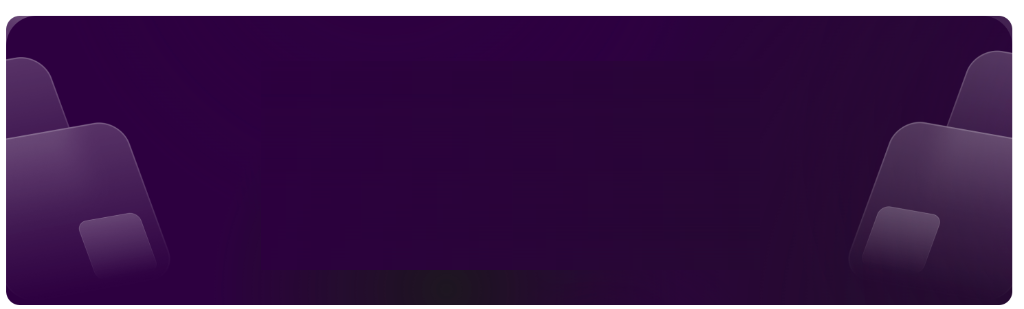
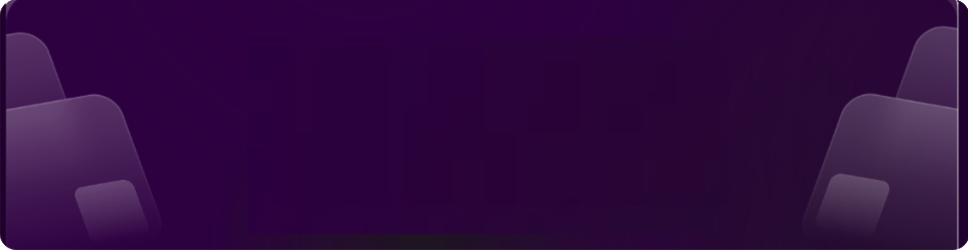
Refine bottom CTA card to match exact reference design 1:1

diff --git a/index.html b/index.html
@@ -952,56 +952,70 @@
         /* 6. BOTTOM CALL TO ACTION */
         .bottom-cta-banner {
             background: var(--bg-page);
-            padding: 70px 0 80px;
+            padding: 60px 0 80px;
             border-top: none;
         }
 
         .bottom-cta-card {
             position: relative;
+            max-width: 968px;
+            width: 100%;
+            margin: 0 auto;
+            min-height: 250px;
             border-radius: 20px;
             overflow: hidden;
-            background: #20002C url('images/cta-card-bg-clean.png') center center / cover no-repeat;
-            padding: 76px 24px;
+            background: #20002C url('images/cta-card-bg-clean.png') center center / 100% 100% no-repeat;
+            padding: 46px 24px 44px;
             text-align: center;
             display: flex;
             flex-direction: column;
             align-items: center;
             justify-content: center;
-            box-shadow: 0 16px 40px rgba(32, 0, 44, 0.16);
-            border: 1px solid rgba(255, 255, 255, 0.08);
+            box-shadow: 0 16px 40px rgba(32, 0, 44, 0.22);
+        }
+
+        @media (max-width: 991px) {
+            .bottom-cta-card {
+                background-size: cover;
+                min-height: 230px;
+                padding: 40px 20px;
+            }
         }
 
         .bottom-cta-headline {
             font-family: var(--font-serif);
-            font-size: clamp(2.2rem, 3.8vw, 3.4rem);
-            font-weight: 500;
+            font-size: clamp(2rem, 3.5vw, 2.75rem);
+            font-weight: 400;
             color: #FFFFFF;
-            margin-bottom: 26px;
+            margin-bottom: 22px;
             line-height: 1.15;
             position: relative;
             z-index: 2;
+            letter-spacing: -0.01em;
         }
 
         .bottom-cta-headline .italic-gold {
             font-style: italic;
             color: var(--gold-accent);
+            font-weight: 400;
         }
 
         .btn-conversation {
             display: inline-flex;
             align-items: center;
             justify-content: center;
-            gap: 10px;
+            gap: 8px;
             background: #FFFFFF;
             color: #20002C;
-            padding: 13px 26px;
+            height: 42px;
+            padding: 0 22px;
             border-radius: 4px;
             font-family: var(--font-sans);
-            font-size: 0.94rem;
+            font-size: 0.88rem;
             font-weight: 600;
             text-decoration: none;
             transition: all var(--transition);
-            box-shadow: 0 4px 14px rgba(0, 0, 0, 0.12);
+            box-shadow: 0 2px 8px rgba(0, 0, 0, 0.1);
             position: relative;
             z-index: 2;
         }
@@ -1010,12 +1024,13 @@
             background: #FAF7F2;
             color: #4A1068;
             transform: translateY(-2px);
-            box-shadow: 0 8px 24px rgba(0, 0, 0, 0.2);
+            box-shadow: 0 6px 18px rgba(0, 0, 0, 0.18);
         }
 
         .btn-conversation svg {
             display: inline-block;
             vertical-align: middle;
+            flex-shrink: 0;
         }
 
         /* 7. FOOTER */
@@ -1747,9 +1762,10 @@
                     Let’s build what <span class="italic-gold">lasts</span>
                 </h2>
                 <a href="#contact" class="btn-conversation">
-                    <svg width="18" height="15" viewBox="0 0 20 16" fill="none" aria-hidden="true">
-                        <path d="M3 8L7.8 2.2C8.8 1 11.2 1 12.2 2.2L17 8" stroke="#20002C" stroke-width="2" stroke-linecap="round" stroke-linejoin="round" />
-                        <path fill-rule="evenodd" clip-rule="evenodd" d="M1 8C1 6.89543 1.89543 6 3 6H17C18.1046 6 19 6.89543 19 8V13C19 14.1046 18.1046 15 17 15H3C1.89543 15 1 14.1046 1 13V8ZM3 8L10 12L17 8V13H3V8Z" fill="#20002C" />
+                    <svg width="16" height="13" viewBox="0 0 16 13" fill="none" aria-hidden="true">
+                        <path d="M4 5.5L7.2 2.2C7.6 1.8 8.4 1.8 8.8 2.2L12 5.5" stroke="#20002C" stroke-width="1.6" stroke-linecap="round" stroke-linejoin="round"/>
+                        <rect x="1.5" y="4.5" width="13" height="7.5" rx="1.5" stroke="#20002C" stroke-width="1.5"/>
+                        <path d="M2.5 5L8 8.5L13.5 5" fill="#20002C" stroke="#20002C" stroke-width="1.2" stroke-linejoin="round"/>
                     </svg>
                     <span>Start a Conversation</span>
                 </a>
